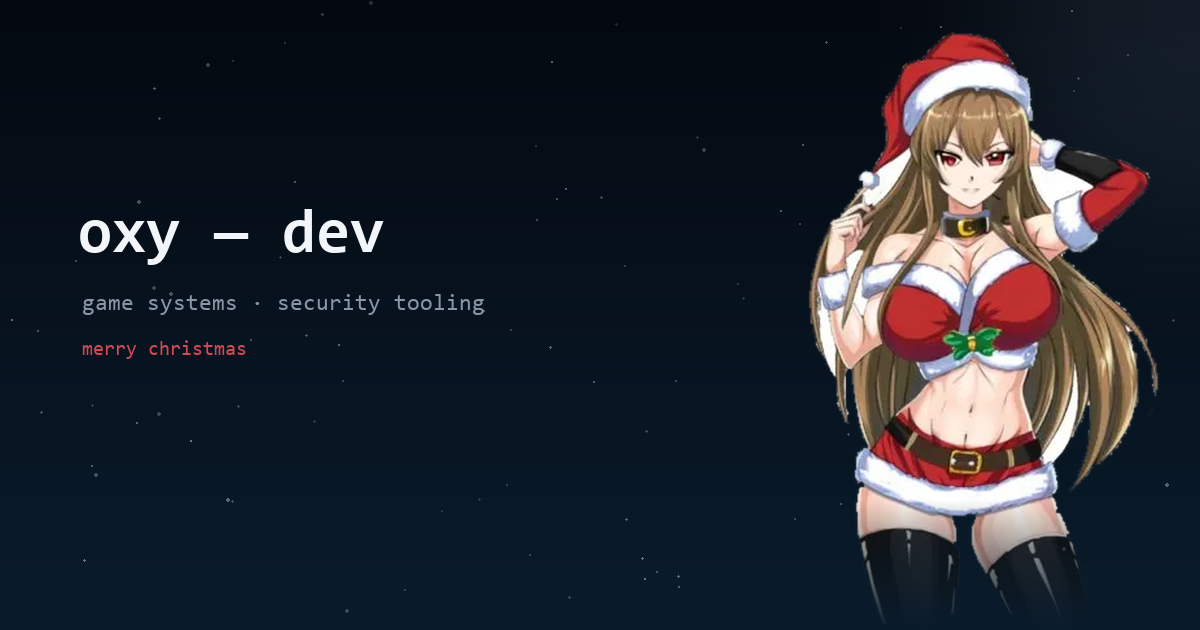
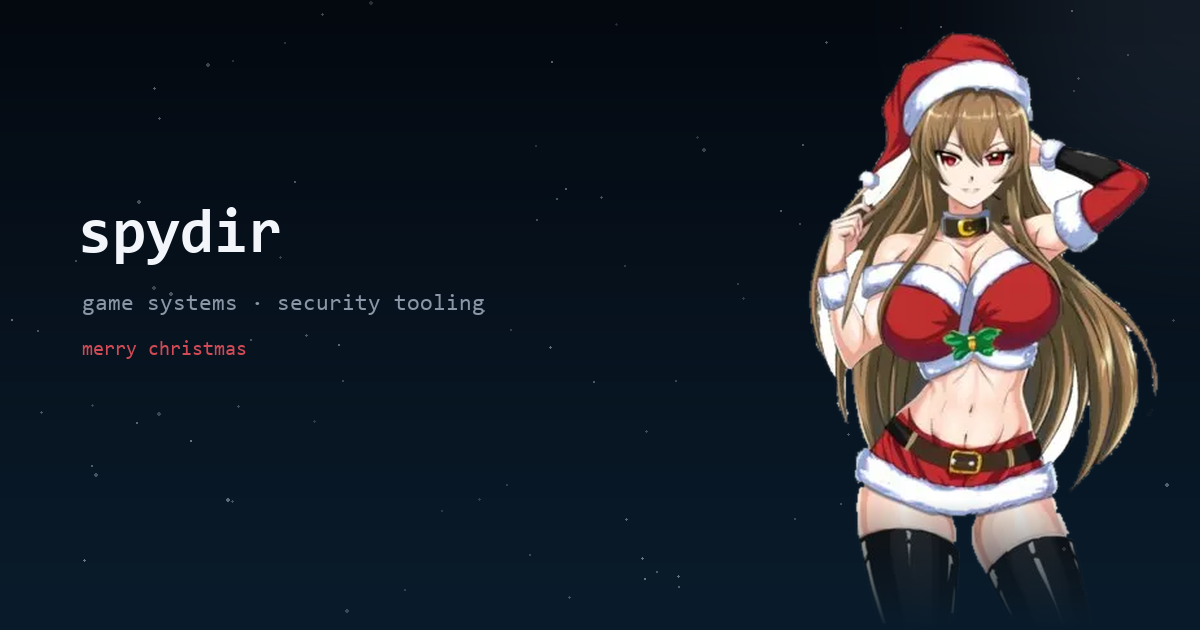
Rename site to spydir

Changed region(s): [[0.1542, 0.3317, 0.3392, 0.4222], [0.0617, 0.3317, 0.1233, 0.4222]]

diff --git a/index.html b/index.html
@@ -10,21 +10,21 @@
     <link rel="icon" type="image/png" sizes="32x32" href="assets/favicon-32.png">
     <link rel="icon" type="image/png" sizes="64x64" href="assets/favicon-64.png">
     <link rel="apple-touch-icon" href="assets/favicon-256.png">
-    <title>oxy — dev</title>
+    <title>spydir</title>
 
-    <meta property="og:title" content="oxy — dev">
+    <meta property="og:title" content="spydir">
     <meta property="og:description" content="game systems, security tooling.">
     <meta property="og:type" content="website">
-    <meta property="og:site_name" content="oxy — dev">
+    <meta property="og:site_name" content="spydir">
     <meta property="og:url" content="https://tryxplts.github.io/">
     <meta property="og:image" content="https://tryxplts.github.io/assets/embed.png">
     <meta property="og:image:type" content="image/png">
     <meta property="og:image:width" content="1200">
     <meta property="og:image:height" content="630">
-    <meta property="og:image:alt" content="oxy — dev">
+    <meta property="og:image:alt" content="spydir">
 
     <meta name="twitter:card" content="summary_large_image">
-    <meta name="twitter:title" content="oxy — dev">
+    <meta name="twitter:title" content="spydir">
     <meta name="twitter:description" content="game systems, security tooling.">
     <meta name="twitter:image" content="https://tryxplts.github.io/assets/embed.png">
     <link rel="stylesheet" href="css/style.css">
@@ -49,18 +49,18 @@
     </div>
 
     <main class="term">
-        <div class="term-line"><span class="prompt">oxy@dev:~$</span> <span class="cmd">who am i</span></div>
-        <div class="term-line out">spydir, also known as oxy — dev. game systems, security tooling. i vibe code.</div>
-        <div class="term-line"><span class="prompt">oxy@dev:~$</span> <span class="cmd">languages</span></div>
+        <div class="term-line"><span class="prompt">spydir@dev:~$</span> <span class="cmd">who am i</span></div>
+        <div class="term-line out">spydir — game systems, security tooling. i vibe code.</div>
+        <div class="term-line"><span class="prompt">spydir@dev:~$</span> <span class="cmd">languages</span></div>
         <div class="term-line out">C++ &middot; C &middot; Python &middot; Lua &middot; JavaScript &middot; English 😭</div>
-        <div class="term-line"><span class="prompt">oxy@dev:~$</span> <span class="cmd">links</span></div>
+        <div class="term-line"><span class="prompt">spydir@dev:~$</span> <span class="cmd">links</span></div>
         <div class="term-line out"><a href="https://discord.com/users/1563313723819425886" target="_blank" rel="noopener noreferrer">my discord — securityreasons</a></div>
         <div class="term-line out"><a href="https://discord.gg/9RG85PwtsB" target="_blank" rel="noopener noreferrer">my server</a></div>
         <div class="term-line out"><a href="https://www.roblox.com/users/18217086/profile" target="_blank" rel="noopener noreferrer">roblox</a></div>
         <div class="term-line out"><a href="https://www.youtube.com/@42803" target="_blank" rel="noopener noreferrer">youtube</a></div>
         <div class="term-line out"><a href="https://guns.lol/234" target="_blank" rel="noopener noreferrer">guns.lol/234</a></div>
         <div class="term-line out"><a href="https://guns.lol/spydir" target="_blank" rel="noopener noreferrer">guns.lol/spydir</a></div>
-        <div class="term-line"><span class="prompt">oxy@dev:~$</span> <span class="caret-sm" aria-hidden="true"></span></div>
+        <div class="term-line"><span class="prompt">spydir@dev:~$</span> <span class="caret-sm" aria-hidden="true"></span></div>
     </main>
 
     <div id="player" class="player" role="region" aria-label="Music player">

diff --git a/js/app.js b/js/app.js
@@ -86,7 +86,7 @@
 
     function initTitle() {
         if (window.matchMedia('(prefers-reduced-motion: reduce)').matches) return;
-        const titles = ['oxy — dev', 'oxy — C++ · C · Python', 'oxy — discord only'];
+        const titles = ['spydir', 'spydir — C++ · C · Python', 'spydir — discord only'];
         let i = 0;
         setInterval(() => {
             i = (i + 1) % titles.length;

diff --git a/work.html b/work.html
@@ -4,7 +4,7 @@
     <meta charset="UTF-8">
     <meta http-equiv="refresh" content="0;url=index.html">
     <link rel="canonical" href="index.html">
-    <title>oxy — dev</title>
+    <title>spydir</title>
 </head>
 <body>
     <p><a href="index.html">back to main page</a></p>
